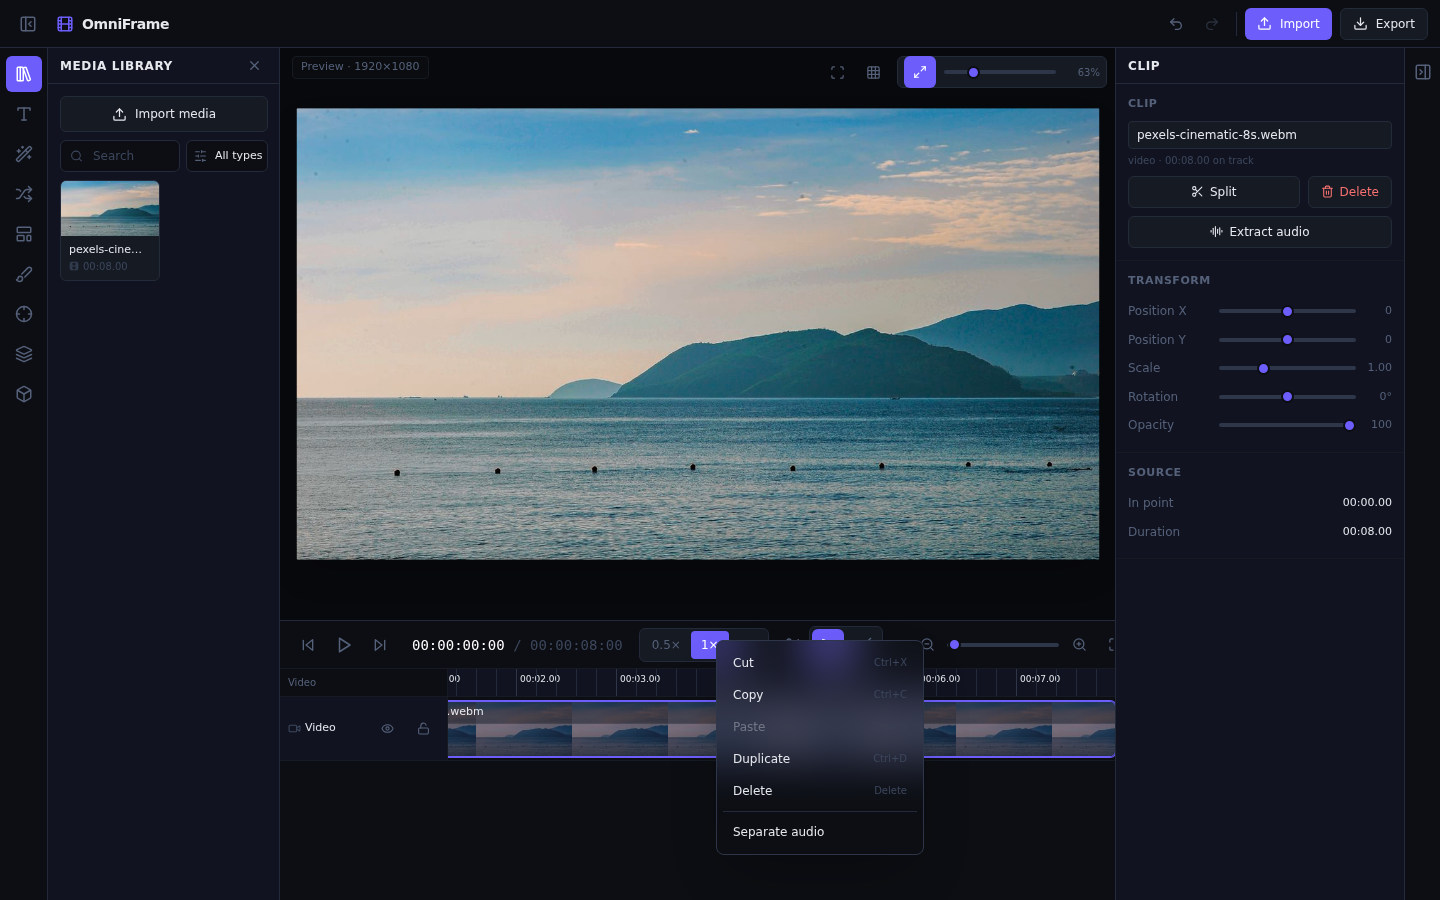
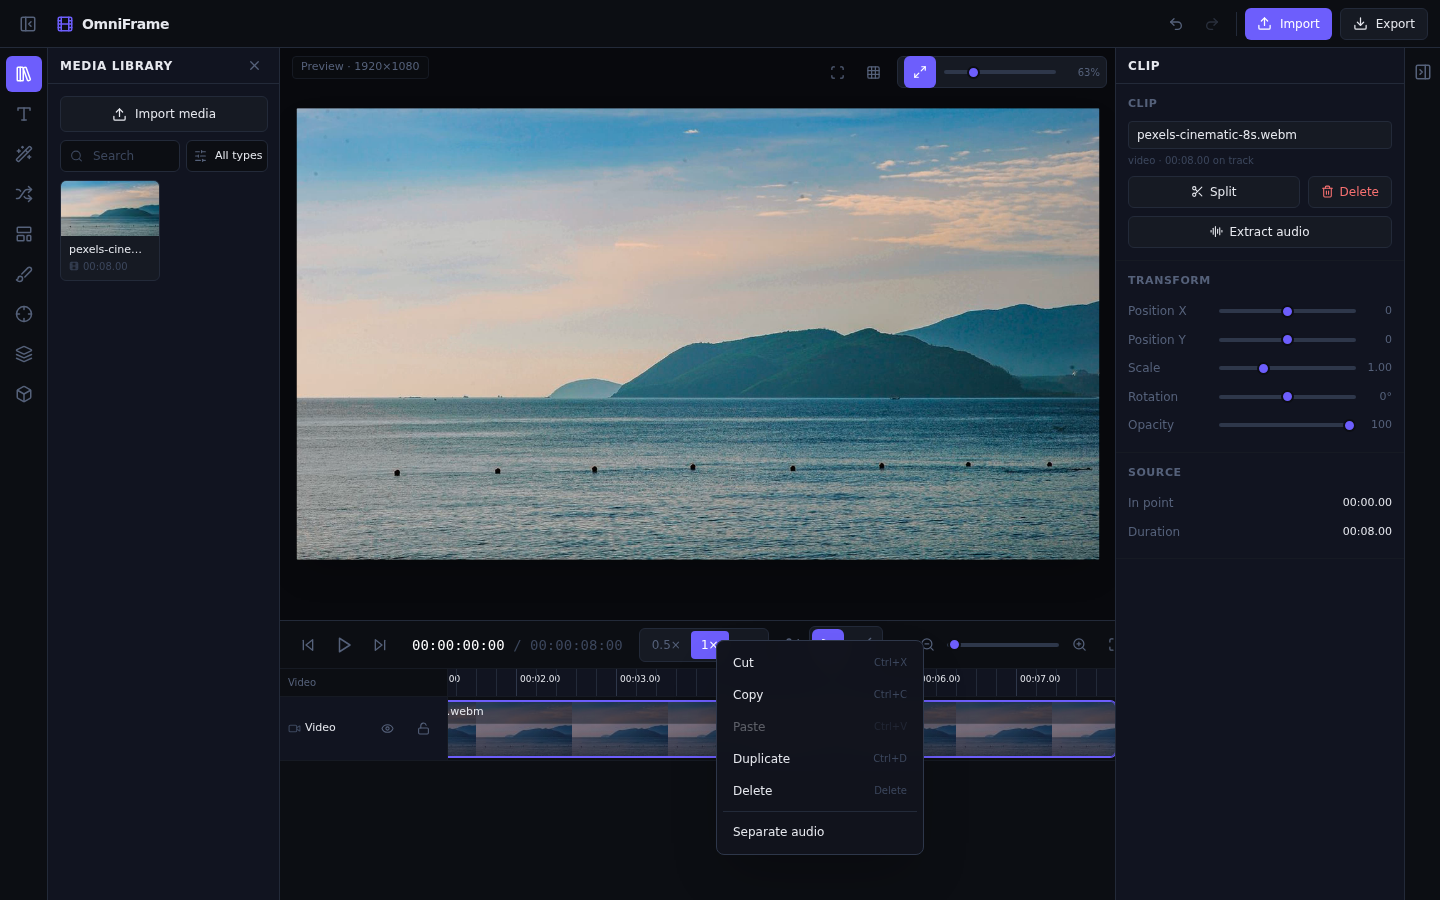
Override browser context menu across Studio

Changed region(s): [[0.5, 0.6844, 0.6562, 0.8711]]

diff --git a/src/Studio.tsx b/src/Studio.tsx
@@ -1,4 +1,4 @@
-import { useEffect } from 'react'
+import { useEffect, useState } from 'react'
 import { useEditor } from './store'
 import { TopBar } from './components/TopBar'
 import { LeftDock } from './components/LeftDock'
@@ -18,6 +18,21 @@ export default function Studio() {
   const undo = useEditor((s) => s.undo)
   const redo = useEditor((s) => s.redo)
   const setSpeed = useEditor((s) => s.setSpeed)
+  const canUndo = useEditor((s) => s.past.length > 0)
+  const canRedo = useEditor((s) => s.future.length > 0)
+  const [contextMenu, setContextMenu] = useState<{ x: number; y: number } | null>(null)
+
+  useEffect(() => {
+    if (!contextMenu) return
+    const close = () => setContextMenu(null)
+    const onKey = (event: KeyboardEvent) => { if (event.key === 'Escape') close() }
+    window.addEventListener('pointerdown', close)
+    window.addEventListener('keydown', onKey)
+    return () => {
+      window.removeEventListener('pointerdown', close)
+      window.removeEventListener('keydown', onKey)
+    }
+  }, [contextMenu])
 
   // Global keyboard shortcuts (disabled while typing in inputs).
   useEffect(() => {
@@ -116,6 +131,13 @@ export default function Studio() {
   return (
     <div
       className="h-full w-full flex flex-col bg-ink-950 text-ink-100 overflow-hidden no-select"
+      onContextMenu={(event) => {
+        event.preventDefault()
+        setContextMenu({
+          x: Math.max(8, Math.min(event.clientX, window.innerWidth - 216)),
+          y: Math.max(8, Math.min(event.clientY, window.innerHeight - 152)),
+        })
+      }}
       onDragOver={(e) => e.preventDefault()}
       onDrop={(e) => {
         e.preventDefault()
@@ -131,6 +153,31 @@ export default function Studio() {
         </div>
         <RightPanel />
       </div>
+      {contextMenu && (
+        <div
+          data-testid="studio-context-menu"
+          role="menu"
+          aria-label="Studio actions"
+          className="fixed z-[70] w-52 rounded-lg border border-ink-600 bg-[#11131d]/[0.98] p-1.5 text-xs text-ink-200 shadow-2xl backdrop-blur-xl"
+          style={{ left: contextMenu.x, top: contextMenu.y }}
+          onContextMenu={(event) => event.preventDefault()}
+          onPointerDown={(event) => event.stopPropagation()}
+        >
+          <button
+            role="menuitem"
+            onClick={() => {
+              document.getElementById('topbar-import-input')?.click()
+              setContextMenu(null)
+            }}
+            className="flex h-9 w-full items-center justify-between rounded-md px-3 text-left font-medium hover:bg-ink-700 focus-visible:outline-none focus-visible:ring-2 focus-visible:ring-brand"
+          >
+            <span>Add media</span><span className="text-[10px] font-normal text-ink-500">Import</span>
+          </button>
+          <div className="my-1 border-t border-ink-700" />
+          <button role="menuitem" disabled={!canUndo} onClick={() => { undo(); setContextMenu(null) }} className="flex h-8 w-full items-center justify-between rounded-md px-3 text-left hover:bg-ink-700 focus-visible:outline-none focus-visible:ring-2 focus-visible:ring-brand disabled:opacity-35 disabled:hover:bg-transparent"><span>Undo</span><span className="text-[10px] text-ink-500">Ctrl+Z</span></button>
+          <button role="menuitem" disabled={!canRedo} onClick={() => { redo(); setContextMenu(null) }} className="flex h-8 w-full items-center justify-between rounded-md px-3 text-left hover:bg-ink-700 focus-visible:outline-none focus-visible:ring-2 focus-visible:ring-brand disabled:opacity-35 disabled:hover:bg-transparent"><span>Redo</span><span className="text-[10px] text-ink-500">Ctrl+Shift+Z</span></button>
+        </div>
+      )}
     </div>
   )
 }

diff --git a/src/components/Timeline.tsx b/src/components/Timeline.tsx
@@ -665,7 +665,7 @@ export function Timeline() {
         <div
           data-testid="clip-context-menu"
           role="menu"
-          className="fixed z-50 w-52 rounded-lg border border-ink-600 bg-ink-850/98 p-1.5 text-xs text-ink-200 shadow-2xl backdrop-blur-xl"
+          className="fixed z-50 w-52 rounded-lg border border-ink-600 bg-[#11131d]/[0.98] p-1.5 text-xs text-ink-200 shadow-2xl backdrop-blur-xl"
           style={{ left: contextMenu.x, top: contextMenu.y }}
           onPointerDown={(event) => event.stopPropagation()}
         >

diff --git a/MEMORY.md b/MEMORY.md
@@ -4890,3 +4890,19 @@ This addendum supersedes earlier `NOT-TESTED` backlog rows where the same named 
 - [BROWSER-QA] PASS 18 focused assertions cover menu contents, web omissions, disabled/enabled Paste, pointer Duplicate, keyboard Duplicate/Cut/Paste, Separate audio, and runtime health.
 - [SCREENSHOT] `qa/screenshots/timeline-clip-context-menu.png` records the selected filmstrip and polished context menu.
 - [BUILD] PASS TypeScript, Vite production build, and whitespace checks.
+
+# Studio-wide custom right-click menu — 2026-09-22
+
+- [USER-CORRECTION] Normal browser context menu must not appear inside Studio when right-clicking outside timeline clips.
+- [SOURCE-CODE] Studio root now prevents the default browser context menu and opens an application-owned menu at the pointer.
+- [SOURCE-CODE] Non-clip menu exposes only real contextual actions: Add media, Undo, and Redo; disabled history actions remain visibly unavailable.
+- [SOURCE-CODE] Add media activates the existing real multi-file picker rather than duplicating import plumbing.
+- [SOURCE-CODE] Clip right-click continues to stop propagation and opens the richer clip-specific menu instead of the generic Studio menu.
+- [ACCESSIBILITY] Menu uses menu/menuitem semantics, visible keyboard focus, Escape dismissal, and safe viewport clamping.
+- [DESIGN] Replaced an initially over-transparent custom-color surface after screenshot inspection with a 98%-opaque `#11131d` surface, controlled border, compact spacing, and restrained shadow.
+- [RESPONSIVE] PASS Custom menu remains at least 8px inside a 390x844 viewport; measured bounds x=174, y=692, width=208, height=123.
+- [BROWSER-QA] PASS Context-menu suite expanded to 23 assertions with zero runtime errors.
+- [SCREENSHOT] `qa/screenshots/studio-context-menu-desktop.png` shows the corrected opaque desktop surface.
+- [SCREENSHOT] `qa/screenshots/studio-context-menu-mobile-390x844.png` shows safe mobile placement.
+- [BUILD] PASS TypeScript, Vite production build, and whitespace checks.
+- [SCOPE] The pasted Chapel Lane dialog specification refers to a component not present in OmniFrame; no unrelated fake modal was introduced.
